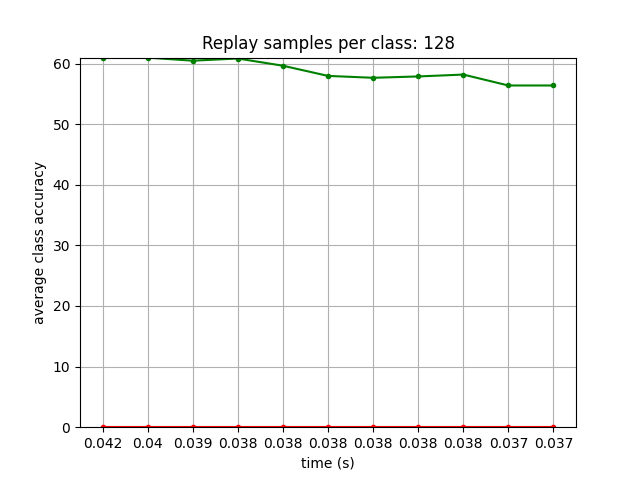
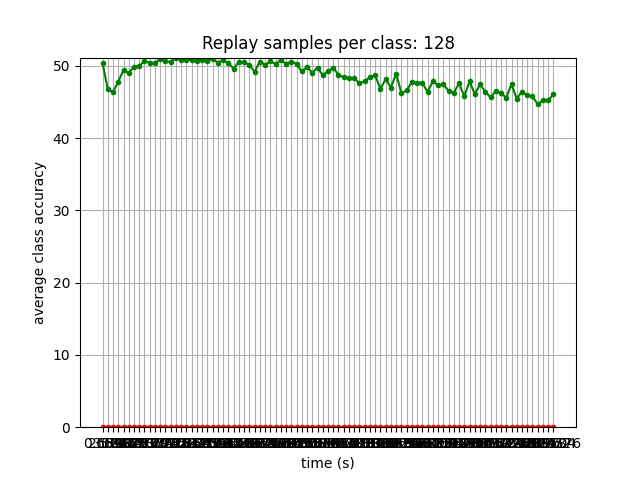
timer track

diff --git a/learners/default.py b/learners/default.py
@@ -340,10 +340,12 @@ class NormalNN(nn.Module):
         
         if (not self.replay and ((self.steps==-1 and self.epoch==self.epochs_of_interest[-1]) or (self.steps!=-1 and self.step_count==self.steps_of_interest[-1]))) or (self.replay and ((self.steps==-1 and self.epoch in self.epochs_of_interest) or (self.steps!=-1 and self.step_count in self.steps_of_interest))):
 
+            # print ('helllllooooooooooooooooooo1')
             self.class_accuracy_epoch, self.class_dist_shift_epoch, self.per_class_accuracy_task, self.per_class_dist_shift = distribution_shift_comparison(self.labels_to_names, self.class_mapping, self.processed_per_class_new_features, self.processed_per_class_old_features, self.per_class_correct_predictions, self.per_class_accuracy_task, self.per_class_dist_shift, self.plot_dir)
             
             if not self.is_oracle: 
                 if int(self.class_weighting_with)==1: ## regular dual dataloader
+                    # print ('helllllooooooooooooooooooo2')
                     self.class_replay_ratios= { i:1 for i in self.new_classes}
                 elif int(self.class_weighting_with)==2: ## custom weighting 50%-50%
                     self.class_replay_ratios= { cl: self.class_ratios_manual[cl] for cl in self.class_ratios_manual if cl in self.new_classes}
@@ -726,7 +728,7 @@ class NormalNN(nn.Module):
 
         # self.steps_of_interest.append(self.step_count)
         # print (self.steps_of_interest)
-        self.times_of_interest.append(round(self.batch_time.avg,3))
+        self.times_of_interest.append(round(self.batch_time.sum,3))
         # print (self.times_of_interest)
 
     def data_weighting(self, dataset, num_seen=None):

diff --git a/learners/er.py b/learners/er.py
@@ -122,6 +122,7 @@ class TR(NormalNN):
         self.plot_dir = self.model_save_dir.replace('_outputs', 'plots_and_tables')
         self.epoch=0
         self.init_params_epoch()
+        
 
         if not self.overwrite:
             try:
@@ -142,6 +143,7 @@ class TR(NormalNN):
         # trains
         # self.check_replay_counts = { int(i): set() for i in self.classes}
         if need_train:
+            timer = Timer()
             if self.reset_optimizer:  # Reset optimizer before learning each task
                 self.log('Optimizer is reset!')
                 self.init_optimizer()
